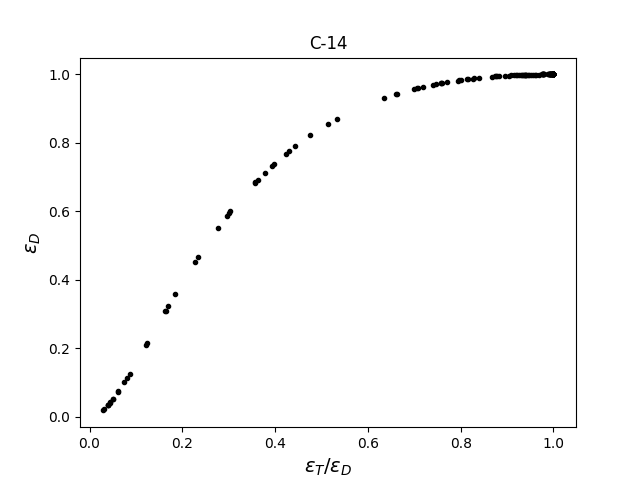
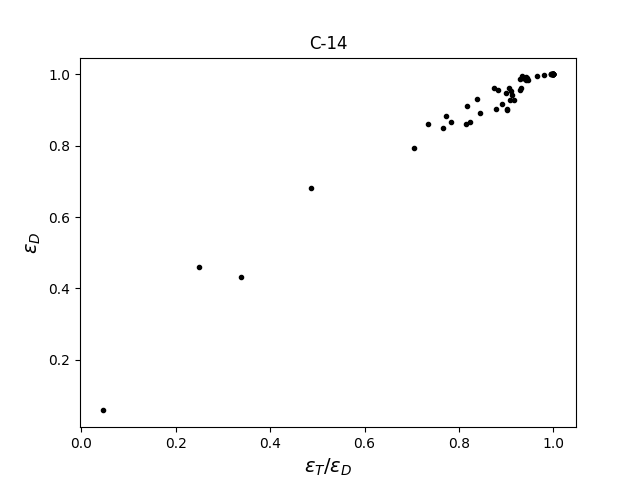
test

diff --git a/MCTDCRcode/main_MCTDCR.py b/MCTDCRcode/main_MCTDCR.py
@@ -16,11 +16,12 @@ import scipy.stats as st
 
 
 ## INPUT OF THE MODEL
-N=5               # number of simulated decay (MC trials)
+N=50               # number of simulated decay (MC trials)
 Rad=["H-3"]       # list of radionuclides
 pmf_1=[1]       # relative abondance (pmf)
 kB = 1e-5         # Birks constant in cm/keV
-L = np.arange(1e-2,3,5e-2) # Free paramete in keV-1
+#L=[1e-1]
+L = np.arange(1e-2,3,5e-2) # Free paramete in keV-1 (for H-3)
 TDCR_measure = 0.977784        # Measured TDCR value
 u_TDCR_measure = 0.000711      # standard uncertainty
 RHO = 0.96         #density of absorber (Toluene) g/cm3
@@ -199,8 +200,8 @@ for L_i in L: # loop on the free parameter values
     TDCR_calcul_vec = np.asarray(efficiency_T)/np.asarray(efficiency_D)
     plt.figure("Efficiency curve")
     plt.title(''.join(Rad))
-    plt.plot(TDCR_calcul_vec,efficiency_D,".k")[0]
-    plt.plot(TDCR_calcul_vec,efficiency_T,".b")[0]
+    plt.plot(np.mean(TDCR_calcul_vec),np.mean(efficiency_D),".k")[0]
+    plt.plot(np.mean(TDCR_calcul_vec),np.mean(efficiency_T),".b")[0]
     #plt.plot([TDCR_measure, TDCR_measure], [min(mean_efficiency_D), max(mean_efficiency_D)], '-r', label="Measurement")
     plt.xlabel(r"$\epsilon_T/\epsilon_D$", fontsize = 14)
     plt.ylabel(r"$\epsilon_D$", fontsize = 14)
